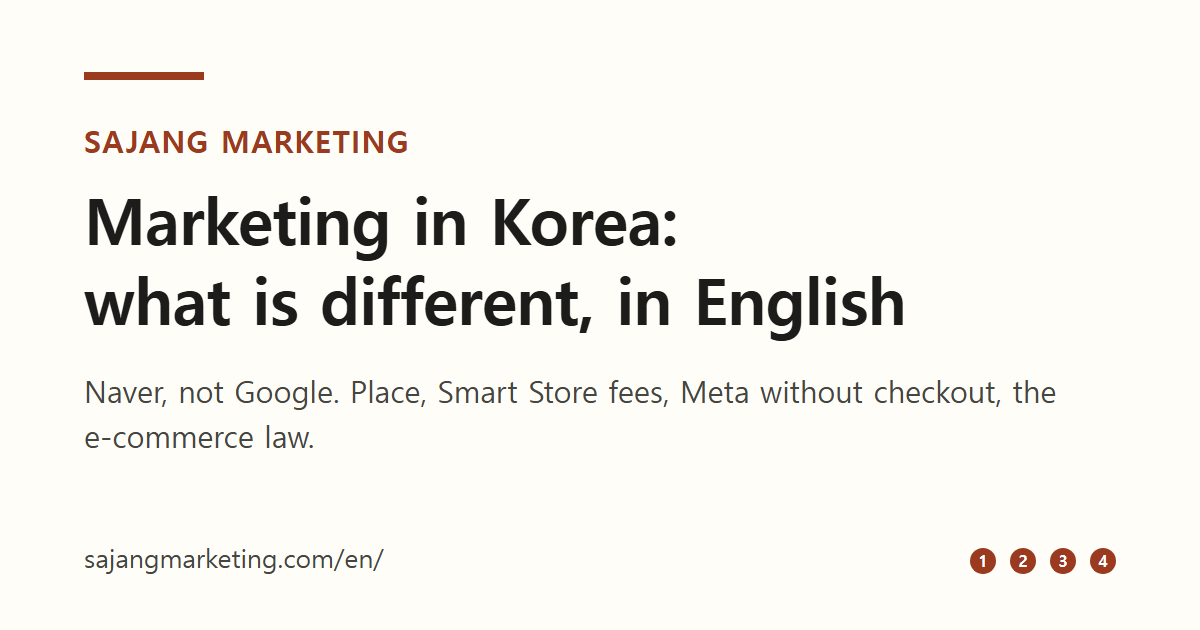
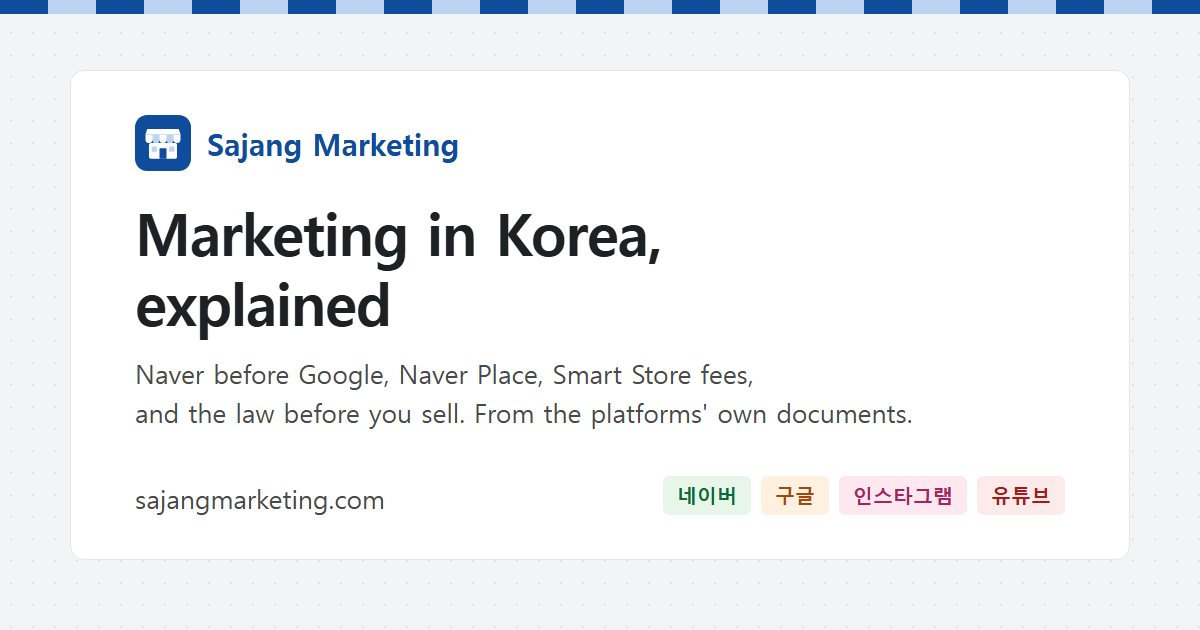
design: 로고(차양 달린 가게)·차양 줄무늬 띠·점 격자 무늬·공유 카드 3장 재생성
- img/mark.svg, logo.svg, favicon.svg. 헤더·푸터에 마크
- body 상단 8px 차양 줄무늬, 페이지 점 격자
- og-home/ko/en 새 팔레트·해요체·로고로 재생성
- 설계기준 D22, 검수기록, 작업일지

검사 35페이지 오류 0.

Claude-Session: https://claude.ai/code/session_01KQ9PSseawvcfpHQ1RJdQ4D

diff --git a/site/guide/seo.html b/site/guide/seo.html
@@ -29,7 +29,7 @@
 <body class="plat-naver">
 <header class="top">
   <div class="wrap">
-    <a class="brand" href="/">사장님 마케팅 교실</a>
+    <a class="brand" href="/"><img src="/img/mark.svg" alt="" width="28" height="28">사장님 마케팅 교실</a>
     <nav><a href="/">처음</a><a href="/guide/" aria-current="page">전체 글</a><a href="/about.html">이 교실은</a><a class="lang" href="/en/naver-search.html" lang="en" hreflang="en">English</a></nav>
   </div>
   <nav class="tabs" aria-label="게시판"><div class="wrap"><a class="site" href="/#intro">홈페이지 소개</a><a class="site" href="/#howto">이용법</a><span class="gap" aria-hidden="true"></span><a href="/guide/">전체</a><a class="plat-start" href="/guide/#t1">시작 전</a><a class="plat-naver" href="/guide/#t2" aria-current="page">네이버</a><a class="plat-google" href="/guide/#t3">구글</a><a class="plat-instagram" href="/guide/#t4">인스타그램</a><a class="plat-youtube" href="/guide/#t5">유튜브</a><a class="plat-ai" href="/guide/#t6">AI</a><a class="plat-sell" href="/guide/#t7">판매</a><a class="plat-record" href="/guide/#t8">기록</a></div><div class="subs plat-naver"><div class="wrap"><span class="of">네이버</span><a href="/guide/#t2-1" aria-current="page">검색 화면</a><a href="/guide/#t2-2">플레이스</a><a href="/guide/#t2-3">블로그</a><a href="/guide/#t2-4">카페</a><a href="/guide/#t2-5">파워링크</a><a href="/guide/#t2-6">리뷰</a></div></div></nav>

diff --git a/site/guide/place.html b/site/guide/place.html
@@ -29,7 +29,7 @@
 <body class="plat-naver">
 <header class="top">
   <div class="wrap">
-    <a class="brand" href="/">사장님 마케팅 교실</a>
+    <a class="brand" href="/"><img src="/img/mark.svg" alt="" width="28" height="28">사장님 마케팅 교실</a>
     <nav><a href="/">처음</a><a href="/guide/" aria-current="page">전체 글</a><a href="/about.html">이 교실은</a><a class="lang" href="/en/naver-place.html" lang="en" hreflang="en">English</a></nav>
   </div>
   <nav class="tabs" aria-label="게시판"><div class="wrap"><a class="site" href="/#intro">홈페이지 소개</a><a class="site" href="/#howto">이용법</a><span class="gap" aria-hidden="true"></span><a href="/guide/">전체</a><a class="plat-start" href="/guide/#t1">시작 전</a><a class="plat-naver" href="/guide/#t2" aria-current="page">네이버</a><a class="plat-google" href="/guide/#t3">구글</a><a class="plat-instagram" href="/guide/#t4">인스타그램</a><a class="plat-youtube" href="/guide/#t5">유튜브</a><a class="plat-ai" href="/guide/#t6">AI</a><a class="plat-sell" href="/guide/#t7">판매</a><a class="plat-record" href="/guide/#t8">기록</a></div><div class="subs plat-naver"><div class="wrap"><span class="of">네이버</span><a href="/guide/#t2-1">검색 화면</a><a href="/guide/#t2-2" aria-current="page">플레이스</a><a href="/guide/#t2-3">블로그</a><a href="/guide/#t2-4">카페</a><a href="/guide/#t2-5">파워링크</a><a href="/guide/#t2-6">리뷰</a></div></div></nav>

diff --git a/site/guide/ads.html b/site/guide/ads.html
@@ -29,7 +29,7 @@
 <body class="plat-naver">
 <header class="top">
   <div class="wrap">
-    <a class="brand" href="/">사장님 마케팅 교실</a>
+    <a class="brand" href="/"><img src="/img/mark.svg" alt="" width="28" height="28">사장님 마케팅 교실</a>
     <nav><a href="/">처음</a><a href="/guide/" aria-current="page">전체 글</a><a href="/about.html">이 교실은</a><a class="lang" href="/en/ads.html" lang="en" hreflang="en">English</a></nav>
   </div>
   <nav class="tabs" aria-label="게시판"><div class="wrap"><a class="site" href="/#intro">홈페이지 소개</a><a class="site" href="/#howto">이용법</a><span class="gap" aria-hidden="true"></span><a href="/guide/">전체</a><a class="plat-start" href="/guide/#t1">시작 전</a><a class="plat-naver" href="/guide/#t2" aria-current="page">네이버</a><a class="plat-google" href="/guide/#t3">구글</a><a class="plat-instagram" href="/guide/#t4">인스타그램</a><a class="plat-youtube" href="/guide/#t5">유튜브</a><a class="plat-ai" href="/guide/#t6">AI</a><a class="plat-sell" href="/guide/#t7">판매</a><a class="plat-record" href="/guide/#t8">기록</a></div><div class="subs plat-naver"><div class="wrap"><span class="of">네이버</span><a href="/guide/#t2-1">검색 화면</a><a href="/guide/#t2-2">플레이스</a><a href="/guide/#t2-3">블로그</a><a href="/guide/#t2-4">카페</a><a href="/guide/#t2-5" aria-current="page">파워링크</a><a href="/guide/#t2-6">리뷰</a></div></div></nav>

diff --git a/site/guide/blog-removed.html b/site/guide/blog-removed.html
@@ -26,7 +26,7 @@
 <body class="plat-naver">
 <header class="top">
   <div class="wrap">
-    <a class="brand" href="/">사장님 마케팅 교실</a>
+    <a class="brand" href="/"><img src="/img/mark.svg" alt="" width="28" height="28">사장님 마케팅 교실</a>
     <nav><a href="/">처음</a><a href="/guide/" aria-current="page">전체 글</a><a href="/about.html">이 교실은</a><a class="lang" href="/en/" lang="en" hreflang="en">English</a></nav>
   </div>
   <nav class="tabs" aria-label="게시판"><div class="wrap"><a class="site" href="/#intro">홈페이지 소개</a><a class="site" href="/#howto">이용법</a><span class="gap" aria-hidden="true"></span><a href="/guide/">전체</a><a class="plat-start" href="/guide/#t1">시작 전</a><a class="plat-naver" href="/guide/#t2" aria-current="page">네이버</a><a class="plat-google" href="/guide/#t3">구글</a><a class="plat-instagram" href="/guide/#t4">인스타그램</a><a class="plat-youtube" href="/guide/#t5">유튜브</a><a class="plat-ai" href="/guide/#t6">AI</a><a class="plat-sell" href="/guide/#t7">판매</a><a class="plat-record" href="/guide/#t8">기록</a></div><div class="subs plat-naver"><div class="wrap"><span class="of">네이버</span><a href="/guide/#t2-1">검색 화면</a><a href="/guide/#t2-2">플레이스</a><a href="/guide/#t2-3" aria-current="page">블로그</a><a href="/guide/#t2-4">카페</a><a href="/guide/#t2-5">파워링크</a><a href="/guide/#t2-6">리뷰</a></div></div></nav>

diff --git a/site/guide/blog.html b/site/guide/blog.html
@@ -26,7 +26,7 @@
 <body class="plat-naver">
 <header class="top">
   <div class="wrap">
-    <a class="brand" href="/">사장님 마케팅 교실</a>
+    <a class="brand" href="/"><img src="/img/mark.svg" alt="" width="28" height="28">사장님 마케팅 교실</a>
     <nav><a href="/">처음</a><a href="/guide/" aria-current="page">전체 글</a><a href="/about.html">이 교실은</a><a class="lang" href="/en/" lang="en" hreflang="en">English</a></nav>
   </div>
   <nav class="tabs" aria-label="게시판"><div class="wrap"><a class="site" href="/#intro">홈페이지 소개</a><a class="site" href="/#howto">이용법</a><span class="gap" aria-hidden="true"></span><a href="/guide/">전체</a><a class="plat-start" href="/guide/#t1">시작 전</a><a class="plat-naver" href="/guide/#t2" aria-current="page">네이버</a><a class="plat-google" href="/guide/#t3">구글</a><a class="plat-instagram" href="/guide/#t4">인스타그램</a><a class="plat-youtube" href="/guide/#t5">유튜브</a><a class="plat-ai" href="/guide/#t6">AI</a><a class="plat-sell" href="/guide/#t7">판매</a><a class="plat-record" href="/guide/#t8">기록</a></div><div class="subs plat-naver"><div class="wrap"><span class="of">네이버</span><a href="/guide/#t2-1">검색 화면</a><a href="/guide/#t2-2">플레이스</a><a href="/guide/#t2-3" aria-current="page">블로그</a><a href="/guide/#t2-4">카페</a><a href="/guide/#t2-5">파워링크</a><a href="/guide/#t2-6">리뷰</a></div></div></nav>

diff --git a/site/guide/powerlink.html b/site/guide/powerlink.html
@@ -26,7 +26,7 @@
 <body class="plat-naver">
 <header class="top">
   <div class="wrap">
-    <a class="brand" href="/">사장님 마케팅 교실</a>
+    <a class="brand" href="/"><img src="/img/mark.svg" alt="" width="28" height="28">사장님 마케팅 교실</a>
     <nav><a href="/">처음</a><a href="/guide/" aria-current="page">전체 글</a><a href="/about.html">이 교실은</a><a class="lang" href="/en/" lang="en" hreflang="en">English</a></nav>
   </div>
   <nav class="tabs" aria-label="게시판"><div class="wrap"><a class="site" href="/#intro">홈페이지 소개</a><a class="site" href="/#howto">이용법</a><span class="gap" aria-hidden="true"></span><a href="/guide/">전체</a><a class="plat-start" href="/guide/#t1">시작 전</a><a class="plat-naver" href="/guide/#t2" aria-current="page">네이버</a><a class="plat-google" href="/guide/#t3">구글</a><a class="plat-instagram" href="/guide/#t4">인스타그램</a><a class="plat-youtube" href="/guide/#t5">유튜브</a><a class="plat-ai" href="/guide/#t6">AI</a><a class="plat-sell" href="/guide/#t7">판매</a><a class="plat-record" href="/guide/#t8">기록</a></div><div class="subs plat-naver"><div class="wrap"><span class="of">네이버</span><a href="/guide/#t2-1">검색 화면</a><a href="/guide/#t2-2">플레이스</a><a href="/guide/#t2-3">블로그</a><a href="/guide/#t2-4">카페</a><a href="/guide/#t2-5" aria-current="page">파워링크</a><a href="/guide/#t2-6">리뷰</a></div></div></nav>

diff --git a/site/guide/reviews.html b/site/guide/reviews.html
@@ -26,7 +26,7 @@
 <body class="plat-naver">
 <header class="top">
   <div class="wrap">
-    <a class="brand" href="/">사장님 마케팅 교실</a>
+    <a class="brand" href="/"><img src="/img/mark.svg" alt="" width="28" height="28">사장님 마케팅 교실</a>
     <nav><a href="/">처음</a><a href="/guide/" aria-current="page">전체 글</a><a href="/about.html">이 교실은</a><a class="lang" href="/en/" lang="en" hreflang="en">English</a></nav>
   </div>
   <nav class="tabs" aria-label="게시판"><div class="wrap"><a class="site" href="/#intro">홈페이지 소개</a><a class="site" href="/#howto">이용법</a><span class="gap" aria-hidden="true"></span><a href="/guide/">전체</a><a class="plat-start" href="/guide/#t1">시작 전</a><a class="plat-naver" href="/guide/#t2" aria-current="page">네이버</a><a class="plat-google" href="/guide/#t3">구글</a><a class="plat-instagram" href="/guide/#t4">인스타그램</a><a class="plat-youtube" href="/guide/#t5">유튜브</a><a class="plat-ai" href="/guide/#t6">AI</a><a class="plat-sell" href="/guide/#t7">판매</a><a class="plat-record" href="/guide/#t8">기록</a></div><div class="subs plat-naver"><div class="wrap"><span class="of">네이버</span><a href="/guide/#t2-1">검색 화면</a><a href="/guide/#t2-2">플레이스</a><a href="/guide/#t2-3">블로그</a><a href="/guide/#t2-4">카페</a><a href="/guide/#t2-5">파워링크</a><a href="/guide/#t2-6" aria-current="page">리뷰</a></div></div></nav>

diff --git a/site/guide/instagram.html b/site/guide/instagram.html
@@ -26,7 +26,7 @@
 <body class="plat-instagram">
 <header class="top">
   <div class="wrap">
-    <a class="brand" href="/">사장님 마케팅 교실</a>
+    <a class="brand" href="/"><img src="/img/mark.svg" alt="" width="28" height="28">사장님 마케팅 교실</a>
     <nav><a href="/">처음</a><a href="/guide/" aria-current="page">전체 글</a><a href="/about.html">이 교실은</a><a class="lang" href="/en/" lang="en" hreflang="en">English</a></nav>
   </div>
   <nav class="tabs" aria-label="게시판"><div class="wrap"><a class="site" href="/#intro">홈페이지 소개</a><a class="site" href="/#howto">이용법</a><span class="gap" aria-hidden="true"></span><a href="/guide/">전체</a><a class="plat-start" href="/guide/#t1">시작 전</a><a class="plat-naver" href="/guide/#t2">네이버</a><a class="plat-google" href="/guide/#t3">구글</a><a class="plat-instagram" href="/guide/#t4" aria-current="page">인스타그램</a><a class="plat-youtube" href="/guide/#t5">유튜브</a><a class="plat-ai" href="/guide/#t6">AI</a><a class="plat-sell" href="/guide/#t7">판매</a><a class="plat-record" href="/guide/#t8">기록</a></div><div class="subs plat-instagram"><div class="wrap"><span class="of">인스타그램</span><a href="/guide/#t4-1" aria-current="page">계정</a><a href="/guide/#t4-2">릴스</a><a href="/guide/#t4-3">스레드</a><a href="/guide/#t4-4">광고</a></div></div></nav>

diff --git a/site/guide/meta-review.html b/site/guide/meta-review.html
@@ -26,7 +26,7 @@
 <body class="plat-instagram">
 <header class="top">
   <div class="wrap">
-    <a class="brand" href="/">사장님 마케팅 교실</a>
+    <a class="brand" href="/"><img src="/img/mark.svg" alt="" width="28" height="28">사장님 마케팅 교실</a>
     <nav><a href="/">처음</a><a href="/guide/" aria-current="page">전체 글</a><a href="/about.html">이 교실은</a><a class="lang" href="/en/" lang="en" hreflang="en">English</a></nav>
   </div>
   <nav class="tabs" aria-label="게시판"><div class="wrap"><a class="site" href="/#intro">홈페이지 소개</a><a class="site" href="/#howto">이용법</a><span class="gap" aria-hidden="true"></span><a href="/guide/">전체</a><a class="plat-start" href="/guide/#t1">시작 전</a><a class="plat-naver" href="/guide/#t2">네이버</a><a class="plat-google" href="/guide/#t3">구글</a><a class="plat-instagram" href="/guide/#t4" aria-current="page">인스타그램</a><a class="plat-youtube" href="/guide/#t5">유튜브</a><a class="plat-ai" href="/guide/#t6">AI</a><a class="plat-sell" href="/guide/#t7">판매</a><a class="plat-record" href="/guide/#t8">기록</a></div><div class="subs plat-instagram"><div class="wrap"><span class="of">인스타그램</span><a href="/guide/#t4-1">계정</a><a href="/guide/#t4-2">릴스</a><a href="/guide/#t4-3">스레드</a><a href="/guide/#t4-4" aria-current="page">광고</a></div></div></nav>

diff --git a/site/guide/threads.html b/site/guide/threads.html
@@ -26,7 +26,7 @@
 <body class="plat-instagram">
 <header class="top">
   <div class="wrap">
-    <a class="brand" href="/">사장님 마케팅 교실</a>
+    <a class="brand" href="/"><img src="/img/mark.svg" alt="" width="28" height="28">사장님 마케팅 교실</a>
     <nav><a href="/">처음</a><a href="/guide/" aria-current="page">전체 글</a><a href="/about.html">이 교실은</a><a class="lang" href="/en/" lang="en" hreflang="en">English</a></nav>
   </div>
   <nav class="tabs" aria-label="게시판"><div class="wrap"><a class="site" href="/#intro">홈페이지 소개</a><a class="site" href="/#howto">이용법</a><span class="gap" aria-hidden="true"></span><a href="/guide/">전체</a><a class="plat-start" href="/guide/#t1">시작 전</a><a class="plat-naver" href="/guide/#t2">네이버</a><a class="plat-google" href="/guide/#t3">구글</a><a class="plat-instagram" href="/guide/#t4" aria-current="page">인스타그램</a><a class="plat-youtube" href="/guide/#t5">유튜브</a><a class="plat-ai" href="/guide/#t6">AI</a><a class="plat-sell" href="/guide/#t7">판매</a><a class="plat-record" href="/guide/#t8">기록</a></div><div class="subs plat-instagram"><div class="wrap"><span class="of">인스타그램</span><a href="/guide/#t4-1">계정</a><a href="/guide/#t4-2">릴스</a><a href="/guide/#t4-3" aria-current="page">스레드</a><a href="/guide/#t4-4">광고</a></div></div></nav>

diff --git a/site/guide/blogger.html b/site/guide/blogger.html
@@ -26,7 +26,7 @@
 <body class="plat-google">
 <header class="top">
   <div class="wrap">
-    <a class="brand" href="/">사장님 마케팅 교실</a>
+    <a class="brand" href="/"><img src="/img/mark.svg" alt="" width="28" height="28">사장님 마케팅 교실</a>
     <nav><a href="/">처음</a><a href="/guide/" aria-current="page">전체 글</a><a href="/about.html">이 교실은</a><a class="lang" href="/en/" lang="en" hreflang="en">English</a></nav>
   </div>
   <nav class="tabs" aria-label="게시판"><div class="wrap"><a class="site" href="/#intro">홈페이지 소개</a><a class="site" href="/#howto">이용법</a><span class="gap" aria-hidden="true"></span><a href="/guide/">전체</a><a class="plat-start" href="/guide/#t1">시작 전</a><a class="plat-naver" href="/guide/#t2">네이버</a><a class="plat-google" href="/guide/#t3" aria-current="page">구글</a><a class="plat-instagram" href="/guide/#t4">인스타그램</a><a class="plat-youtube" href="/guide/#t5">유튜브</a><a class="plat-ai" href="/guide/#t6">AI</a><a class="plat-sell" href="/guide/#t7">판매</a><a class="plat-record" href="/guide/#t8">기록</a></div><div class="subs plat-google"><div class="wrap"><span class="of">구글</span><a href="/guide/#t3-1">검색</a><a href="/guide/#t3-2" aria-current="page">블로거</a><a href="/guide/#t3-3">티스토리</a><a href="/guide/#t3-4">도메인</a></div></div></nav>

diff --git a/site/guide/domain.html b/site/guide/domain.html
@@ -26,7 +26,7 @@
 <body class="plat-google">
 <header class="top">
   <div class="wrap">
-    <a class="brand" href="/">사장님 마케팅 교실</a>
+    <a class="brand" href="/"><img src="/img/mark.svg" alt="" width="28" height="28">사장님 마케팅 교실</a>
     <nav><a href="/">처음</a><a href="/guide/" aria-current="page">전체 글</a><a href="/about.html">이 교실은</a><a class="lang" href="/en/" lang="en" hreflang="en">English</a></nav>
   </div>
   <nav class="tabs" aria-label="게시판"><div class="wrap"><a class="site" href="/#intro">홈페이지 소개</a><a class="site" href="/#howto">이용법</a><span class="gap" aria-hidden="true"></span><a href="/guide/">전체</a><a class="plat-start" href="/guide/#t1">시작 전</a><a class="plat-naver" href="/guide/#t2">네이버</a><a class="plat-google" href="/guide/#t3" aria-current="page">구글</a><a class="plat-instagram" href="/guide/#t4">인스타그램</a><a class="plat-youtube" href="/guide/#t5">유튜브</a><a class="plat-ai" href="/guide/#t6">AI</a><a class="plat-sell" href="/guide/#t7">판매</a><a class="plat-record" href="/guide/#t8">기록</a></div><div class="subs plat-google"><div class="wrap"><span class="of">구글</span><a href="/guide/#t3-1">검색</a><a href="/guide/#t3-2">블로거</a><a href="/guide/#t3-3">티스토리</a><a href="/guide/#t3-4" aria-current="page">도메인</a></div></div></nav>
